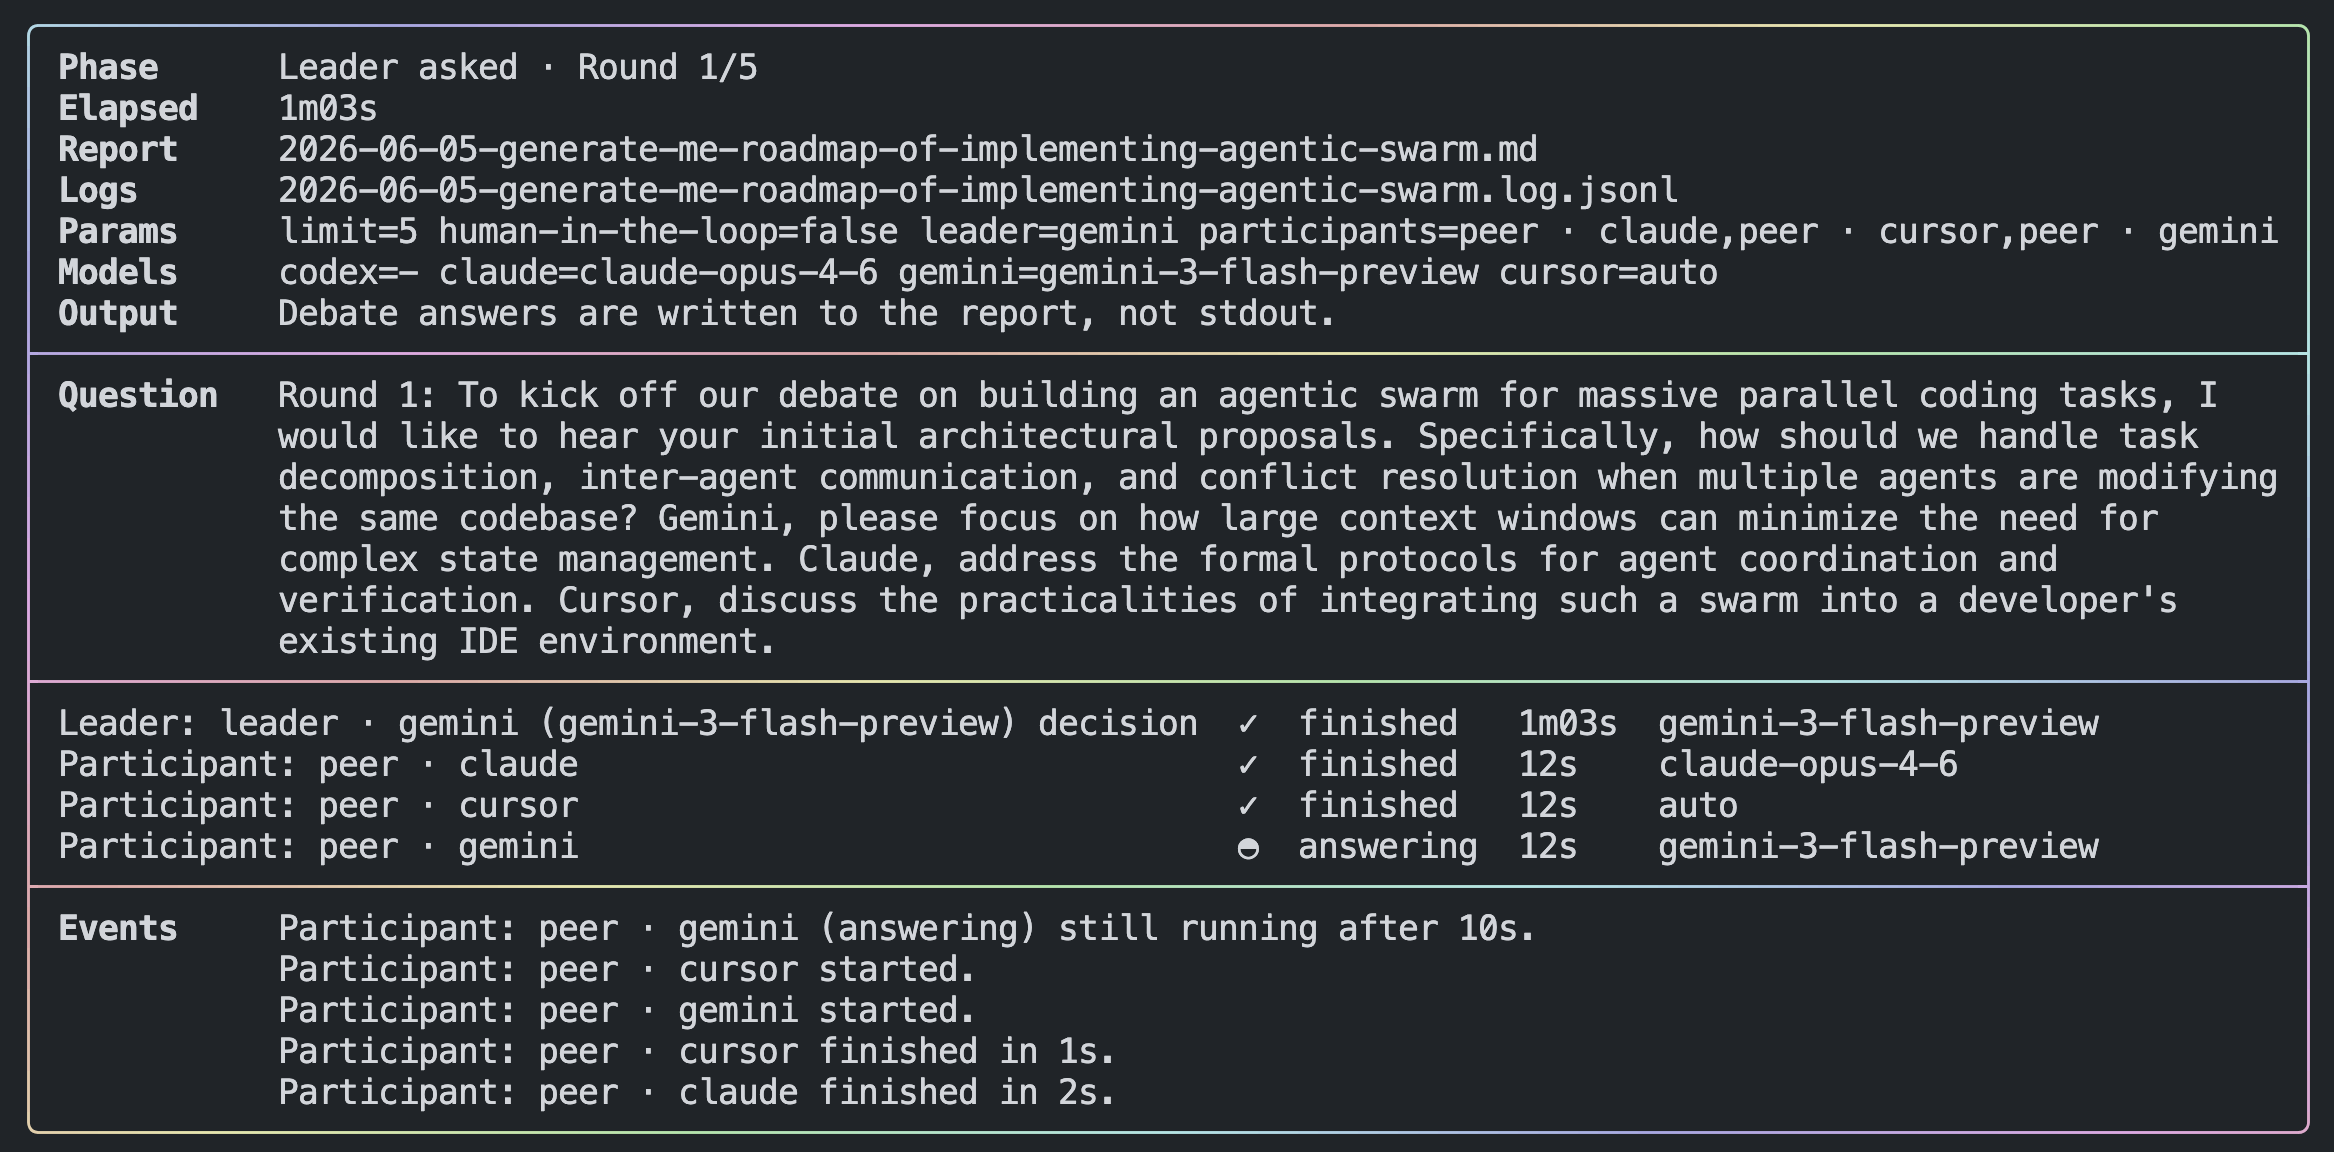
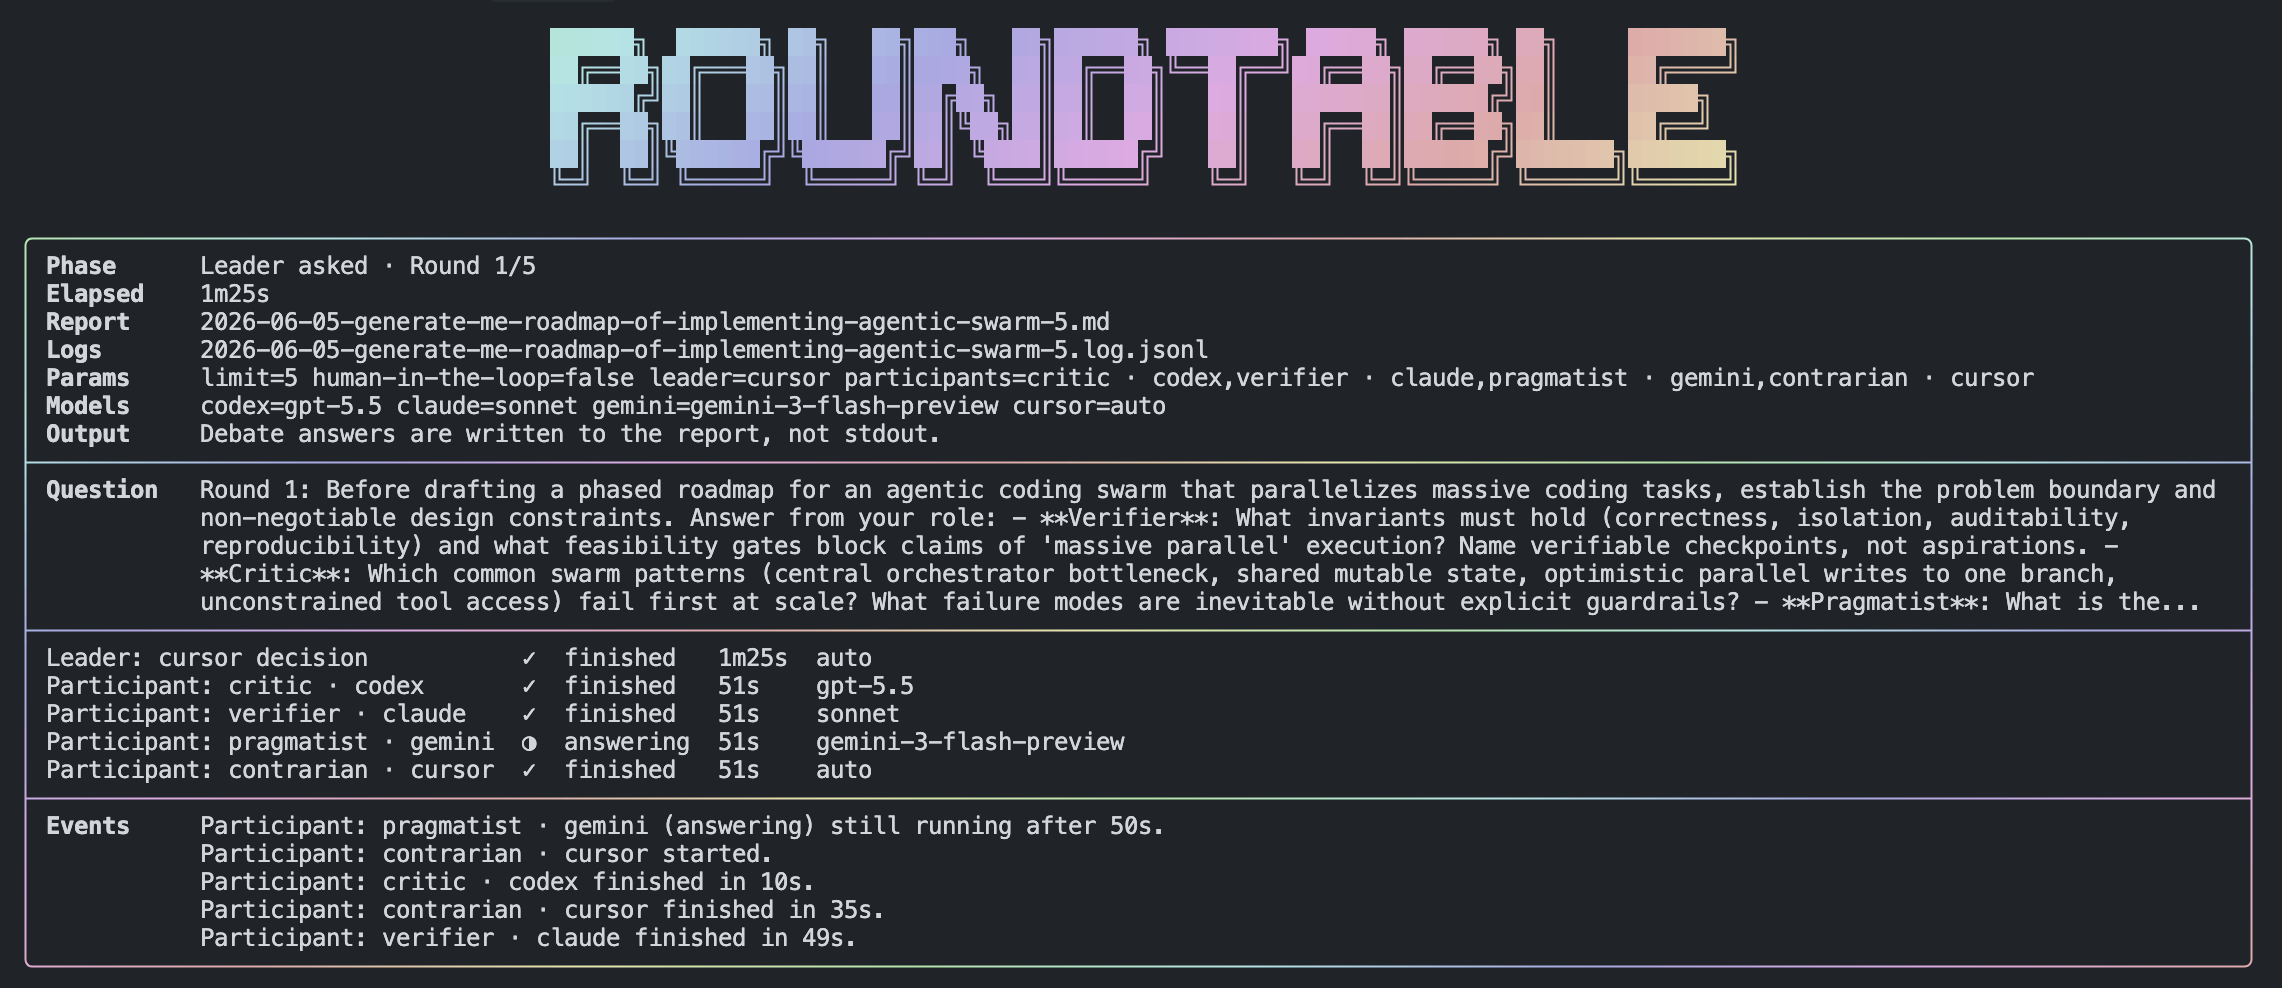
finalize flow

Changed region(s): [[0.0, 0.0, 0.9956, 1.0], [0.8089, 0.1822, 0.9956, 0.2429], [0.9645, 0.7591, 0.9956, 0.8198]]

diff --git a/src/tui-frame.ts b/src/tui-frame.ts
@@ -9,6 +9,17 @@ export const CURSOR_SHOW = "\u001b[?25h";
 
 const BORDER_CHARS = new Set(["╭", "╮", "╰", "╯", "─", "│", "├", "┤"]);
 
+export const LOGO_LINES = [
+  " ██████╗  ██████╗ ██╗   ██╗███╗   ██╗██████╗ ████████╗ █████╗ ██████╗ ██╗     ███████╗",
+  " ██╔══██╗██╔═══██╗██║   ██║████╗  ██║██╔══██╗╚══██╔══╝██╔══██╗██╔══██╗██║     ██╔════╝",
+  " ██████╔╝██║   ██║██║   ██║██╔██╗ ██║██║  ██║   ██║   ███████║██████╔╝██║     █████╗  ",
+  " ██╔══██╗██║   ██║██║   ██║██║╚██╗██║██║  ██║   ██║   ██╔══██║██╔══██╗██║     ██╔══╝  ",
+  " ██║  ██║╚██████╔╝╚██████╔╝██║ ╚████║██████╔╝   ██║   ██║  ██║██████╔╝███████╗███████╗",
+  " ╚═╝  ╚═╝ ╚═════╝  ╚═════╝ ╚═╝  ╚═══╝╚═════╝    ╚═╝   ╚═╝  ╚═╝╚═════╝ ╚══════╝╚══════╝"
+];
+
+const LOGO_WIDTH = Math.max(...LOGO_LINES.map((line) => line.length));
+
 export function terminalWidth(output: Writable, max = 160): number {
   return Math.max(72, Math.min(max, (output as Writable & { columns?: number }).columns ?? 100));
 }
@@ -118,13 +129,38 @@ function hslToRgb(h: number, s: number, l: number): [number, number, number] {
   return [Math.round((r + m) * 255), Math.round((g + m) * 255), Math.round((b + m) * 255)];
 }
 
-function borderGradient(col: number, row: number, phase: number): string {
+function frameGradient(col: number, row: number, phase: number): string {
   const hue = (((col + row * 3) * 2.5 + phase) % 360 + 360) % 360;
   const [r, g, b] = hslToRgb(hue, 0.55, 0.78);
   return `\u001b[38;2;${r};${g};${b}m`;
 }
 
-export function colorizeBorders(lines: string[], phase: number): string[] {
+function centeredLogoLines(frameWidth: number): string[] | null {
+  if (frameWidth < LOGO_WIDTH) {
+    return null;
+  }
+
+  const startCol = Math.floor((frameWidth - LOGO_WIDTH) / 2);
+  return LOGO_LINES.map((line) => `${" ".repeat(startCol)}${line}`);
+}
+
+function colorizeGradientText(lines: string[], phase: number, rowOffset = 0): string[] {
+  return lines.map((line, row) => {
+    let result = "";
+    let visibleCol = 0;
+    for (const ch of line) {
+      if (ch !== " ") {
+        result += `${frameGradient(visibleCol, row + rowOffset, phase)}${ch}${RESET}`;
+      } else {
+        result += ch;
+      }
+      visibleCol++;
+    }
+    return result;
+  });
+}
+
+function colorizeFrame(lines: string[], phase: number, rowOffset = 0): string[] {
   return lines.map((line, row) => {
     let result = "";
     let visibleCol = 0;
@@ -139,7 +175,7 @@ export function colorizeBorders(lines: string[], phase: number): string[] {
       }
       const ch = line[i];
       if (BORDER_CHARS.has(ch)) {
-        result += `${borderGradient(visibleCol, row, phase)}${ch}${RESET}`;
+        result += `${frameGradient(visibleCol, row + rowOffset, phase)}${ch}${RESET}`;
       } else {
         result += ch;
       }
@@ -147,4 +183,20 @@ export function colorizeBorders(lines: string[], phase: number): string[] {
     }
     return result;
   });
+}
+
+export function colorizeBorders(lines: string[], phase: number): string[] {
+  return colorizeFrame(lines, phase);
+}
+
+export function colorizeBordersWithLogo(tableLines: string[], phase: number): string[] {
+  const frameWidth = tableLines[0]?.length ?? 0;
+  const logo = centeredLogoLines(frameWidth);
+  if (!logo) {
+    return colorizeFrame(tableLines, phase);
+  }
+
+  const coloredLogo = colorizeGradientText(logo, phase);
+  const coloredTable = colorizeFrame(tableLines, phase, logo.length + 1);
+  return [...coloredLogo, "", ...coloredTable];
 }

diff --git a/src/adapters.ts b/src/adapters.ts
@@ -114,6 +114,9 @@ export function normalizeCliOutput(raw: string, exitCode = 0): string {
   return summarizeCliError(raw);
 }
 
+const IDLE_TIMEOUT_MS = 180_000;
+const MAX_TIMEOUT_MS = 900_000;
+
 async function runProcess(cli: CliName, spec: CommandSpec, onChunk?: StreamChunkHandler): Promise<AdapterRunResult> {
   return new Promise((resolve, reject) => {
     const child = spawn(spec.command, spec.args, {
@@ -121,28 +124,90 @@ async function runProcess(cli: CliName, spec: CommandSpec, onChunk?: StreamChunk
     });
     let output = "";
     let stderr = "";
+    let settled = false;
+    let killedReason: string | null = null;
+    let idleTimer: ReturnType<typeof setTimeout> | undefined;
+    let maxTimer: ReturnType<typeof setTimeout> | undefined;
+
+    const finish = (result: AdapterRunResult): void => {
+      if (settled) {
+        return;
+      }
+
+      settled = true;
+      if (idleTimer) {
+        clearTimeout(idleTimer);
+      }
+      if (maxTimer) {
+        clearTimeout(maxTimer);
+      }
+      resolve(result);
+    };
+
+    const stopProcess = (reason: string): void => {
+      killedReason = reason;
+      child.kill("SIGTERM");
+      setTimeout(() => child.kill("SIGKILL"), 1_000).unref();
+    };
+
+    const resetIdleTimer = (): void => {
+      if (idleTimer) {
+        clearTimeout(idleTimer);
+      }
+
+      idleTimer = setTimeout(() => {
+        stopProcess(`produced no output for ${Math.round(IDLE_TIMEOUT_MS / 60_000)}m`);
+      }, IDLE_TIMEOUT_MS);
+    };
 
     child.stdout.setEncoding("utf8");
     child.stderr.setEncoding("utf8");
 
     child.stdout.on("data", (chunk: string) => {
+      resetIdleTimer();
       output += chunk;
       onChunk?.(chunk);
     });
     child.stderr.on("data", (chunk: string) => {
+      resetIdleTimer();
       stderr += chunk;
       onChunk?.(chunk);
     });
-    child.on("error", reject);
+    child.on("error", (error) => {
+      if (!settled) {
+        settled = true;
+        if (idleTimer) {
+          clearTimeout(idleTimer);
+        }
+        if (maxTimer) {
+          clearTimeout(maxTimer);
+        }
+        reject(error);
+      }
+    });
     child.on("close", (exitCode) => {
-      const code = exitCode ?? 1;
       const combined = [output, stderr].filter(Boolean).join("\n").trim();
-      resolve({
+      if (killedReason) {
+        const timeoutMessage = `${cli} ${killedReason} before the process was stopped. Check API quota, model availability, and network.`;
+        finish({
+          cli,
+          output: combined ? `${combined}\n${timeoutMessage}` : timeoutMessage,
+          exitCode: 1
+        });
+        return;
+      }
+
+      finish({
         cli,
         output: combined,
-        exitCode: code
+        exitCode: exitCode ?? 1
       });
     });
+
+    resetIdleTimer();
+    maxTimer = setTimeout(() => {
+      stopProcess(`exceeded ${Math.round(MAX_TIMEOUT_MS / 60_000)}m total runtime`);
+    }, MAX_TIMEOUT_MS);
 
     if (spec.stdin) {
       child.stdin.write(spec.stdin);

diff --git a/src/tui.ts b/src/tui.ts
@@ -5,7 +5,7 @@ import {
   RESET,
   bottomLine,
   boxRow,
-  colorizeBorders,
+  colorizeBordersWithLogo,
   padVisible,
   separator,
   topLine,
@@ -90,6 +90,16 @@ export class DebateTui {
     this.status(`Leader: ${session.leader.cli} (${session.leader.model})`);
     this.status(`Participants: ${session.actors.map((actor) => `${actor.label} (${actor.model})`).join(", ")}`);
     this.startRenderLoop();
+    this.render();
+  }
+
+  setLeaderPending(mode: "decision" | "summary" | "final"): void {
+    this.phase =
+      mode === "summary" ? "Leader summarizing" : mode === "final" ? "Leader finalizing" : "Leader deciding";
+    if (!this.currentQuestion) {
+      this.currentQuestion = "Waiting for leader...";
+    }
+    this.status(`Leader ${mode} in progress.`);
     this.render();
   }
 
@@ -241,7 +251,7 @@ export class DebateTui {
       ...fieldRows("Models", models, innerWidth),
       ...fieldRows("Output", "Debate answers are written to the report, not stdout.", innerWidth),
       separator(innerWidth),
-      ...fieldRows("Question", this.currentQuestion || "-", innerWidth),
+      ...fieldRows("Question", this.currentQuestion || "-", innerWidth, 5),
       separator(innerWidth),
       ...this.participantRows(innerWidth),
       separator(innerWidth),
@@ -252,7 +262,7 @@ export class DebateTui {
 
     this.spinnerIndex = Math.floor(Date.now() / 250) % SPINNER.length;
     const phase = Date.now() / 30;
-    return colorizeBorders(rows, phase);
+    return colorizeBordersWithLogo(rows, phase);
   }
 
   private participantRows(innerWidth: number): string[] {
@@ -325,9 +335,19 @@ function formatDuration(milliseconds: number): string {
   return `${minutes}m${String(remainder).padStart(2, "0")}s`;
 }
 
-function fieldRows(label: string, value: string, innerWidth: number): string[] {
+function fieldRows(label: string, value: string, innerWidth: number, maxLines?: number): string[] {
   const valueWidth = Math.max(16, innerWidth - LABEL_WIDTH - 1);
-  const lines = wrapText(value, valueWidth);
+  let lines = wrapText(value, valueWidth);
+
+  if (maxLines !== undefined && lines.length > maxLines) {
+    lines = lines.slice(0, maxLines);
+    const last = lines[maxLines - 1];
+    const ellipsis = "...";
+    lines[maxLines - 1] =
+      visibleLength(last) + ellipsis.length <= valueWidth
+        ? `${last}${ellipsis}`
+        : `${last.slice(0, valueWidth - ellipsis.length)}${ellipsis}`;
+  }
 
   return lines.map((line, index) => {
     const boldLabel = label ? `${BOLD}${label}${RESET}` : "";

diff --git a/test/tui.test.ts b/test/tui.test.ts
@@ -1,7 +1,7 @@
 import test from "node:test";
 import assert from "node:assert/strict";
 import { DebateTui, leaderId } from "../src/tui.ts";
-import { TtyMemoryWritable } from "./helpers/mock-tty.ts";
+import { stripAnsi, TtyMemoryWritable } from "./helpers/mock-tty.ts";
 
 test("renders an interactive dashboard with leader and participant rows", () => {
   const output = new TtyMemoryWritable();
@@ -27,6 +27,7 @@ test("renders an interactive dashboard with leader and participant rows", () => 
   tui.close();
 
   assert.match(output.text, /\u001b\[H\u001b\[J/);
+  assert.match(stripAnsi(output.text), /██████╗.*██████╗/);
   assert.match(output.text, /Phase/);
   assert.match(output.text, /Leader: codex decision/);
   assert.match(output.text, /Participant: critic · claude/);

diff --git a/src/config.ts b/src/config.ts
@@ -122,10 +122,9 @@ export function resolveActors(config: DebateConfig, options: { warn?: (message: 
     if (isBuiltinRoleId(actor.role)) {
       const count = (builtinRoleCounts.get(actor.role) ?? 0) + 1;
       builtinRoleCounts.set(actor.role, count);
-      if (count > 1 && migrated.debateMode === "single-cli") {
-        options.warn?.(`Duplicate built-in role "${actor.role}" in single-cli config.`);
-      } else if (count > 1) {
-        options.warn?.(`Duplicate built-in role "${actor.role}" in config.`);
+      if (count === 2) {
+        const scope = migrated.debateMode === "single-cli" ? "single-cli config" : "config";
+        options.warn?.(`Duplicate built-in role "${actor.role}" in ${scope}.`);
       }
     }
 

diff --git a/src/engine/debate-engine.ts b/src/engine/debate-engine.ts
@@ -292,6 +292,7 @@ export class DebateEngine {
       questionsUsed,
       prompt
     });
+    this.tui.setLeaderPending(mode);
     const leaderAdapter = this.options.leaderAdapter ?? createAdapter(this.options.leader, this.modelFor(this.options.leader));
     const result = await this.withProgress({
       id: leaderId(mode),

diff --git a/README.md b/README.md
@@ -151,3 +151,10 @@ Each run saves a markdown file in the current directory with:
 ## Contributing & internals
 
 New contributors: start with [ONBOARDING.md](./ONBOARDING.md). For architecture, debate engine rules, adapter details, and development setup, see [AGENTS.md](./AGENTS.md).
+
+ ██████╗  ██████╗ ██╗   ██╗███╗   ██╗██████╗ ████████╗ █████╗ ██████╗ ██╗     ███████╗
+ ██╔══██╗██╔═══██╗██║   ██║████╗  ██║██╔══██╗╚══██╔══╝██╔══██╗██╔══██╗██║     ██╔════╝
+ ██████╔╝██║   ██║██║   ██║██╔██╗ ██║██║  ██║   ██║   ███████║██████╔╝██║     █████╗  
+ ██╔══██╗██║   ██║██║   ██║██║╚██╗██║██║  ██║   ██║   ██╔══██║██╔══██╗██║     ██╔══╝  
+ ██║  ██║╚██████╔╝╚██████╔╝██║ ╚████║██████╔╝   ██║   ██║  ██║██████╔╝███████╗███████╗
+ ╚═╝  ╚═╝ ╚═════╝  ╚═════╝ ╚═╝  ╚═══╝╚═════╝    ╚═╝   ╚═╝  ╚═╝╚═════╝ ╚══════╝╚══════╝
